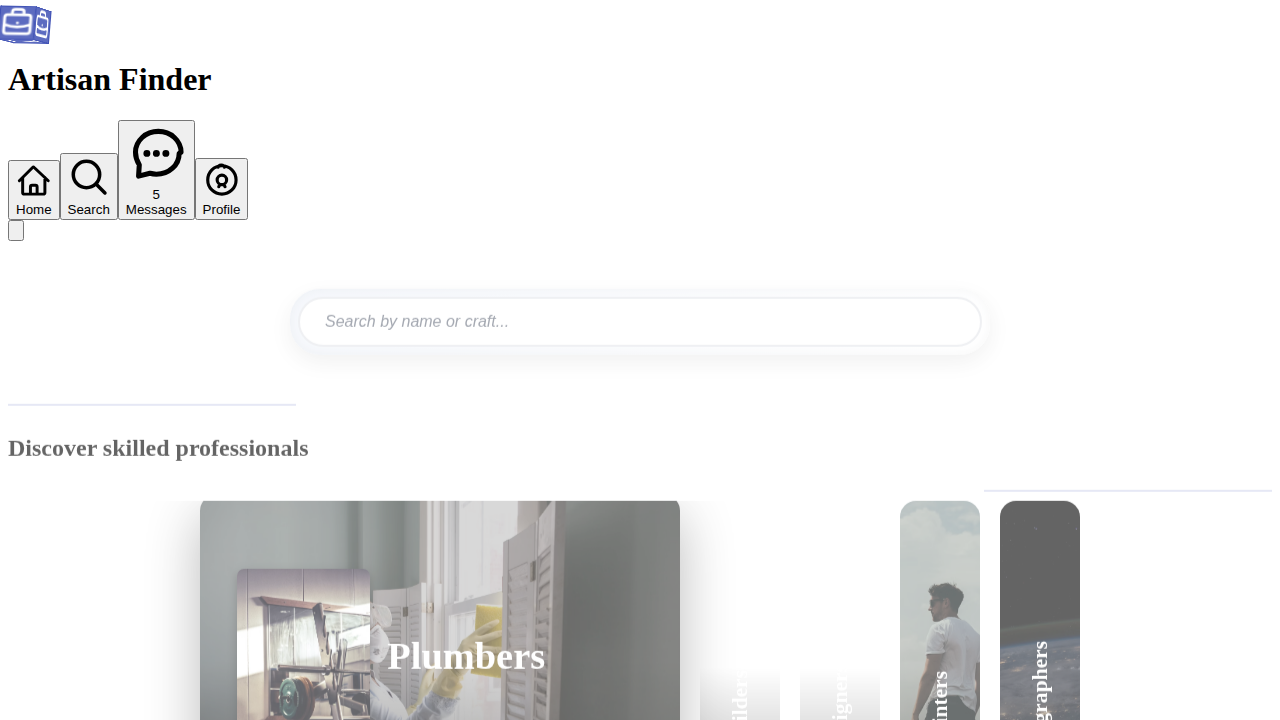
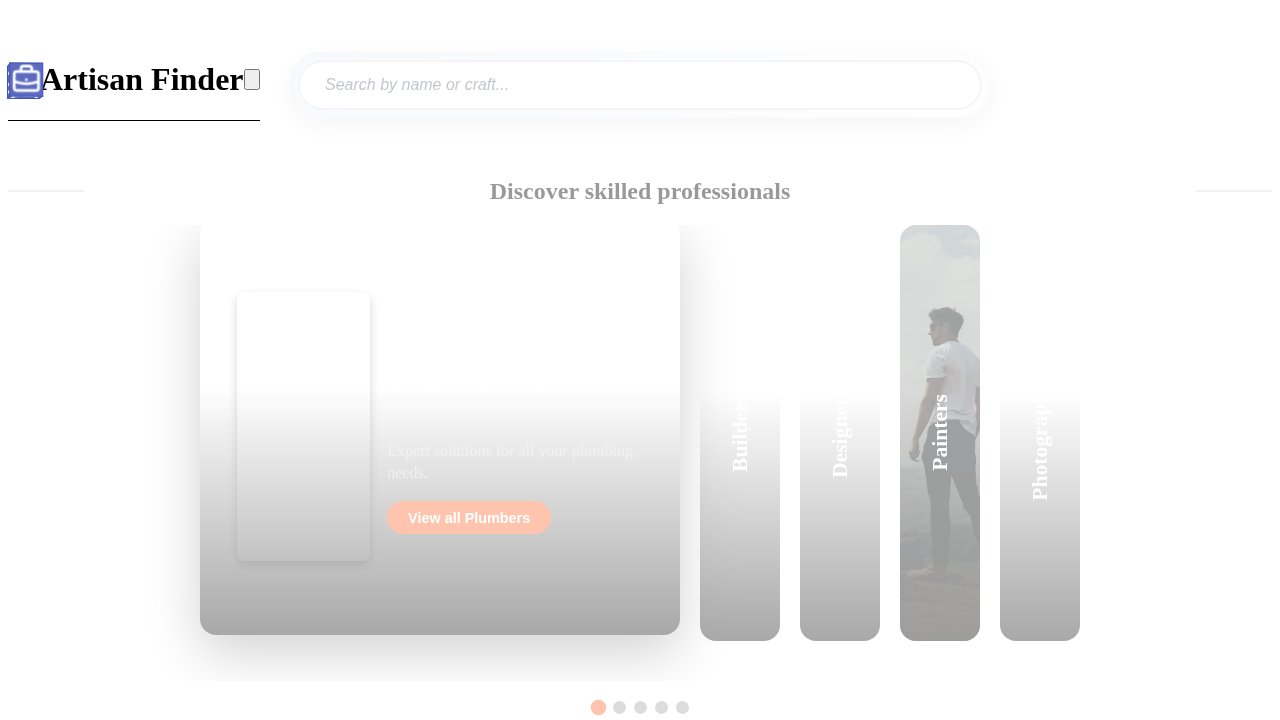
This commit addresses several critical issues, including a broken build, missing styles, and a monolithic codebase.
Key changes include:
- **Project Restructure:** Migrated all source code into a modular `src` directory, with subdirectories for pages, components, services, and styles. This improves organization and maintainability.
- **Build Process:** Replaced the Tailwind CSS CDN with a proper PostCSS and Vite build setup, resolving console errors and ensuring correct production builds.
- **Styling Fix:** Restored all application styling by adding the required `@tailwind` directives to the main CSS file.
- **Firebase Integration:** Hardcoded the provided Firebase configuration into the application.
- **Deployment:** Added a `netlify.toml` file to configure the project for deployment on Netlify.
- **Error Handling:** Integrated Sentry for error reporting and added a React Error Boundary to gracefully handle rendering errors.

The application is now fully functional, buildable, and deployable, with a much-improved and maintainable codebase.

diff --git a/src/styles/index.css b/src/styles/index.css
@@ -1,3 +1,7 @@
+@tailwind base;
+@tailwind components;
+@tailwind utilities;
+
 :root {
         --slider-gap: 1.25rem;
         --slider-speed: 0.55s cubic-bezier(0.25, 0.46, 0.45, 0.94);
